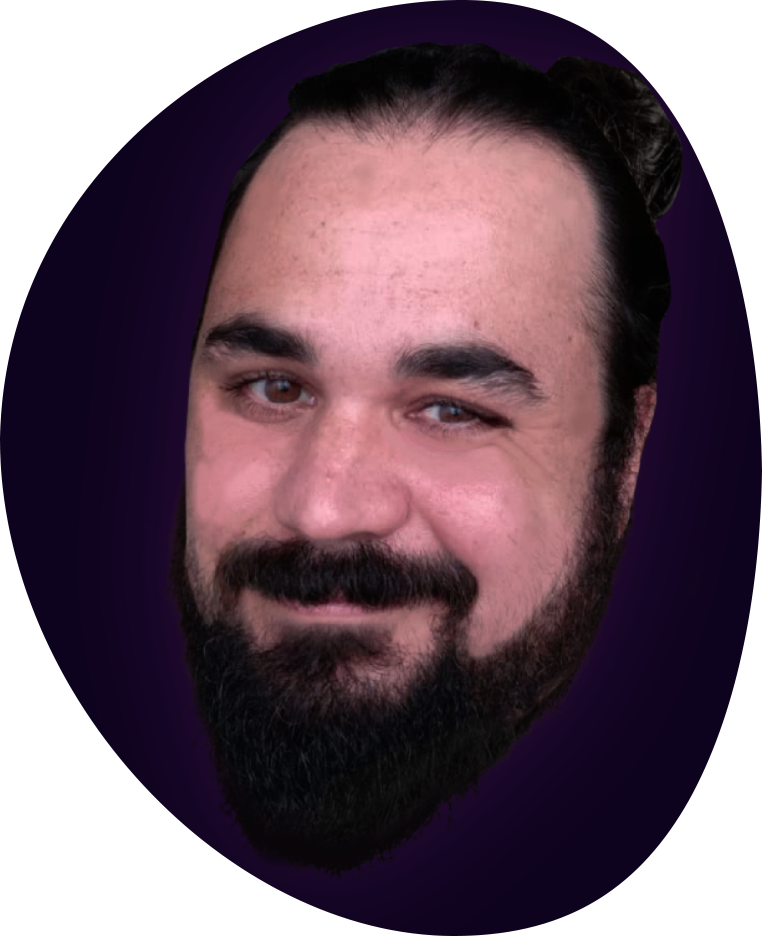
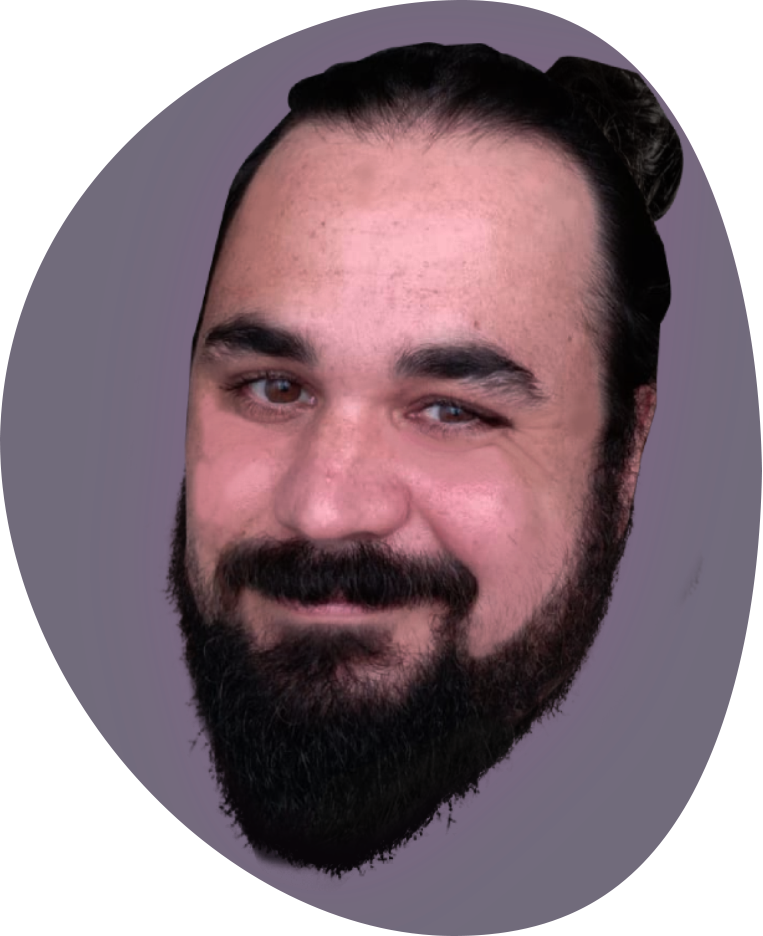
recaut

diff --git a/index.html b/index.html
@@ -13,8 +13,8 @@
 
 
     <link rel="stylesheet" href="assets/css/felipetravassos.css">
-    <link rel="stylesheet" href="assets/css/style.css?v=333">
-    <link rel="stylesheet" href="assets/css/darkmode.css">
+    <link rel="stylesheet" href="assets/css/style.css?v=2">
+    <link rel="stylesheet" href="assets/css/darkmode.css?v=222">
 
 
 </head>
@@ -81,14 +81,14 @@
                         </ul>
                     </div>
                 </div>
-
+                <div id="particles-js"></div>
                 <section id="home">
 
                
 
                     
                    
-                        <div id="particles-js"></div>
+                        
                    
            
 
@@ -97,11 +97,15 @@
                     <img title="Felipe Travassos" src="assets/images/logow.svg" id="logohome" alt="Felipe Travassos">
                 </section>
                 <section id="aboutme" class="pt-4">
-                    <div class="container py-4 text-center">
+                    <br>
+                    <br>
+                    <br>
+                    <div class="container py-4 text-center bgcontainer">
                         <h3>{{translate('aboutme_title')}}</h3>
 
+                        <div class="px-4">
                         <div class="row">
-                            <div class="col-12 col-md-7">
+                            <div class="col-12 col-md-8">
                                 <article class="text-start">
                                     <p>{{translate('aboutme_content_p1')}}</p>
                                     <p>{{translate('aboutme_content_p2')}}</p>
@@ -112,34 +116,30 @@
                                 </article>
 
                             </div>
-                            <div class="col-12 col-md-5">
-                                <div class="px-0 px-4">
-                                    <div class="px-0 px-4">
-                                        <div class="px-0 px-4">
-                                            <div class="px-0 px-4">
+                            <div class="col-12 col-md-4">
+                               
                                                 <figure class="mefigure">
                                                     <img src="assets/images/me.png" class="mephoto me" title="Avatar" alt="Avatar">
 
                                                 </figure>
-                                            </div>
-                                        </div>
-                                    </div>
-                                </div>
+                                            
+                            </div>
                             </div>
                         </div>
 
 
                     </div>
 
-                    <svg class="bgsection" xmlns="http://www.w3.org/2000/svg" viewBox="0 0 1440 320">
-                        <path fill="#3a4c86"fill-opacity="1"d="M0,256L60,266.7C120,277,240,299,360,309.3C480,320,600,320,720,277.3C840,235,960,149,1080,122.7C1200,96,1320,128,1380,144L1440,160L1440,320L1380,320C1320,320,1200,320,1080,320C960,320,840,320,720,320C600,320,480,320,360,320C240,320,120,320,60,320L0,320Z"></path>
-                    </svg>
+          
                 </section>
                 <section id="portfolio" class="pt-4">
-                    <div class="container py-4 text-center">
+                    <br>
+                    <br>
+                    <br>
+                    <div class="container py-4 text-center bgcontainer">
                         <h3>{{translate('portfolio_title')}}</h3>
 
-
+<div class="px-4">
                         <div class="row">
                             <div class="col-6 col-lg-4 col-md-3">
                                 <div class="card" style="width: 100%">
@@ -305,21 +305,22 @@
                         </div>
 
 
-
+                    </div>
                     </div>
 
 
 
 
-                    <svg class="bgsection" xmlns="http://www.w3.org/2000/svg" viewBox="0 0 1440 320">
-                    <path fill="#3a4c86"fill-opacity="1"d="M0,288L60,266.7C120,245,240,203,360,208C480,213,600,267,720,293.3C840,320,960,320,1080,304C1200,288,1320,256,1380,240L1440,224L1440,320L1380,320C1320,320,1200,320,1080,320C960,320,840,320,720,320C600,320,480,320,360,320C240,320,120,320,60,320L0,320Z"></path>
-                  </svg>
+                
                 </section>
                 <section id="skills" class="pt-4">
-                    <div class="container py-4 text-center">
+                    <br>
+                    <br>
+                    <br>
+                    <div class="container py-4 text-center bgcontainer">
                         <h3>{{translate('skills_title')}}</h3>
 
-
+<div class="px-4">
                         <div class="row  text-start">
                             <div class="col-sm-6 col-12" style="margin-top: 30px;">
                                 <div>HTML5<br>
@@ -488,14 +489,17 @@
                             </div>
 
                         </div>
-
+                    </div>
                     </div>
 
 
                 </section>
                 <section id="certifications" class="pt-4">
-                    <div class="container py-4 text-center">
-                        <div class="pb-5">
+                    <br>
+                    <br>
+                    <br>
+                    <div class="container py-4 text-center bgcontainer">
+                        <div class="px-4">
                             <h3>{{translate('certifications_title')}}</h3>
                             <hr>
                             <h4>{{translate('college')}}</h4>
@@ -507,12 +511,14 @@
                         </div>
                     </div>
 
-                    <svg class="bgsection" xmlns="http://www.w3.org/2000/svg" viewBox="0 0 1440 320">
-                    <path fill="#3a4c86"fill-opacity="1"d="M0,256L60,266.7C120,277,240,299,360,309.3C480,320,600,320,720,277.3C840,235,960,149,1080,122.7C1200,96,1320,128,1380,144L1440,160L1440,320L1380,320C1320,320,1200,320,1080,320C960,320,840,320,720,320C600,320,480,320,360,320C240,320,120,320,60,320L0,320Z"></path>
-                </svg>
                 </section>
                 <section id="contactme" class="pt-4">
-                    <div class="container py-4 text-start">
+                    <br>
+                    <br>
+                    <br>
+                    <div class="container py-4 text-start bgcontainer">
+                        <div class="px-4">
+                   
                         <h3 class="text-center">{{translate('contactme_title')}}</h3>
                         <div class="row">
                             <!-- Section Titile -->
@@ -567,9 +573,7 @@
 
                     </div>
 
-                    <svg class="bgsection" xmlns="http://www.w3.org/2000/svg" viewBox="0 0 1440 320">
-                    <path fill="#3a4c86"fill-opacity="1"d="M0,288L60,266.7C120,245,240,203,360,208C480,213,600,267,720,293.3C840,320,960,320,1080,304C1200,288,1320,256,1380,240L1440,224L1440,320L1380,320C1320,320,1200,320,1080,320C960,320,840,320,720,320C600,320,480,320,360,320C240,320,120,320,60,320L0,320Z"></path>
-                  </svg>
+                  </div>
                 </section>
                 <footer class="p-3 text-center">
                     © 2021

diff --git a/assets/css/style.css b/assets/css/style.css
@@ -18,13 +18,13 @@ html {
     position: fixed;
     top: 0;
     right: 0;
-    background: rgb(16, 5, 40, 1);
-    background: linear-gradient(331deg, rgba(170, 16, 170, 1) 0%, rgba(19, 45, 97, 1) 50%, rgba(16, 5, 40, 1) 100%);
-    background-size: contain;
-    bottom: 0;
+      bottom: 0;
     left: 0;
     transition: all 500ms ease-in-out;
     z-index: 99999;
+    background: rgb(16, 5, 40, 1);
+    background: linear-gradient(331deg, rgba(170, 16, 170, 1) 0%, rgba(19, 45, 97, 1) 50%, rgba(16, 5, 40, 1) 100%);
+ 
 }
 
 #loader img {
@@ -108,8 +108,8 @@ header nav {
 }
 
 section {
-    background: linear-gradient(0deg, #abc9dd 0%, #fff 100%);
     position: relative;
+    background:  transparent !important;
 }
 
 section .container {
@@ -173,10 +173,7 @@ header nav .menu {
     display: none;
 }
 
-.topheader {
-    border-bottom: 1px solid #ccc;
-    background: #fff;
-}
+
 
 .topheader #respbtn {
     color: #316d97 !important;
@@ -185,6 +182,13 @@ header nav .menu {
 .topheader .logoa {
     top: 14px;
 }
+
+.bgcontainer
+{
+    background: rgba(7, 18, 43, 0.9);
+    border-radius: 15px;
+}
+
 
 .fullscreenmenu {
     transition: all 500ms ease-in-out;
@@ -359,8 +363,9 @@ header nav .menu {
 
 footer {
     transition: all 500ms ease-in-out;
-    background: #fff;
-    color: #cccccc;
+    position: relative;
+    color: #fff !important;
+z-index: 5;
 }
 
 .card {
@@ -459,7 +464,10 @@ footer {
   }
   
   #particles-js {
-    position: absolute;
     width: 100%;
     height: 100%;
+    background: rgb(16, 5, 40, 1);
+    background: linear-gradient(331deg, rgba(170, 16, 170, 1) 0%, rgba(19, 45, 97, 1) 50%, rgba(16, 5, 40, 1) 100%);
+    position: fixed;
+    z-index: 1;
   }

diff --git a/assets/css/darkmode.css b/assets/css/darkmode.css
@@ -1,6 +1,7 @@
     .darkmode .topheader {
-        border-bottom: 1px solid #1b063b !important;
-        background: #200747 !important;
+     
+        background: rgba(15, 33, 74, .9);
+        border-bottom: rgb(15, 33, 74);
     }
     
     .darkmode .logoheader {
@@ -41,11 +42,7 @@
         border-color: rgb(35, 8, 82);
     }
     
-    .darkmode section {
-        background: rgba(49, 13, 111, 1);
-        background: linear-gradient(0deg, rgb(34, 8, 78) 0%, rgb(22, 5, 49) 100%);
-        border-color: rgb(35, 8, 82);
-    }
+ 
     
     .darkmode section p {
         color: #fff;
@@ -90,7 +87,7 @@
     }
     
     .darkmode .habilidadepercent {
-        background: #160531 !important;
+        background: #020a1e !important;
     }
     
     .darkmode .habilidadepercent div {
@@ -101,7 +98,4 @@
         color: #fff;
     }
     
-    .darkmode footer {
-        background: #160531 !important;
-        color: #fff !important;
-    }
+    
